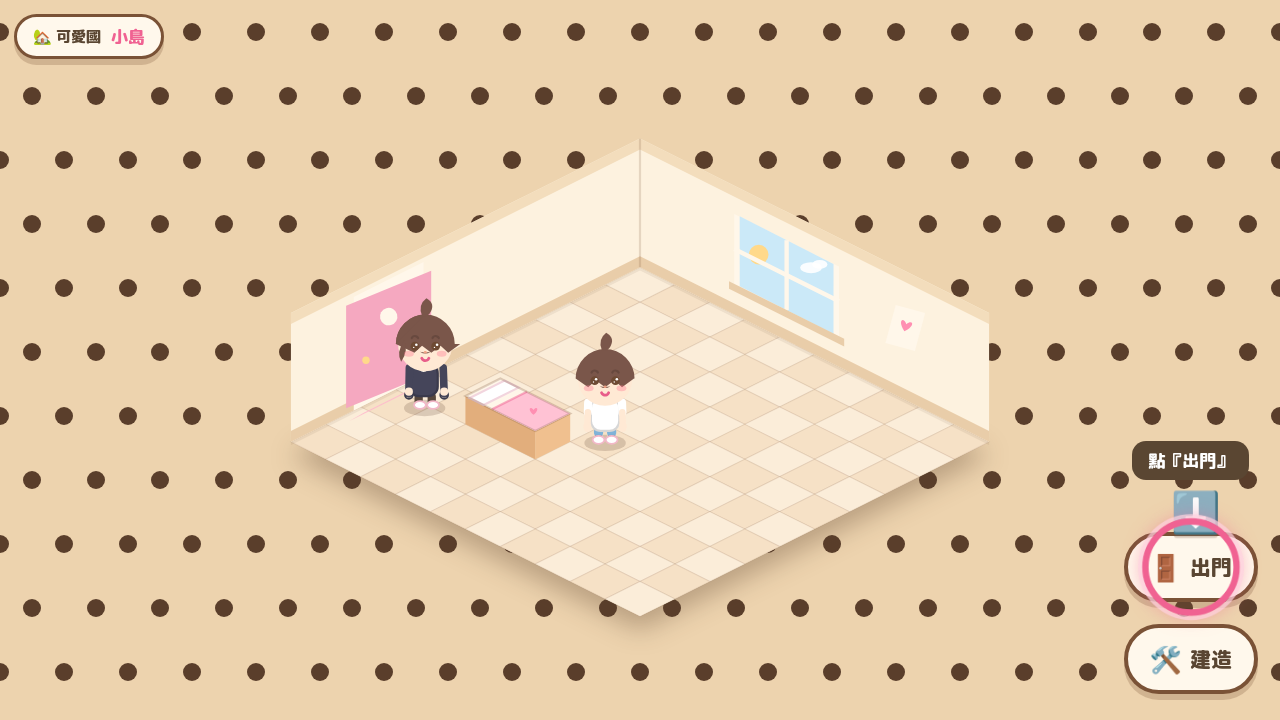
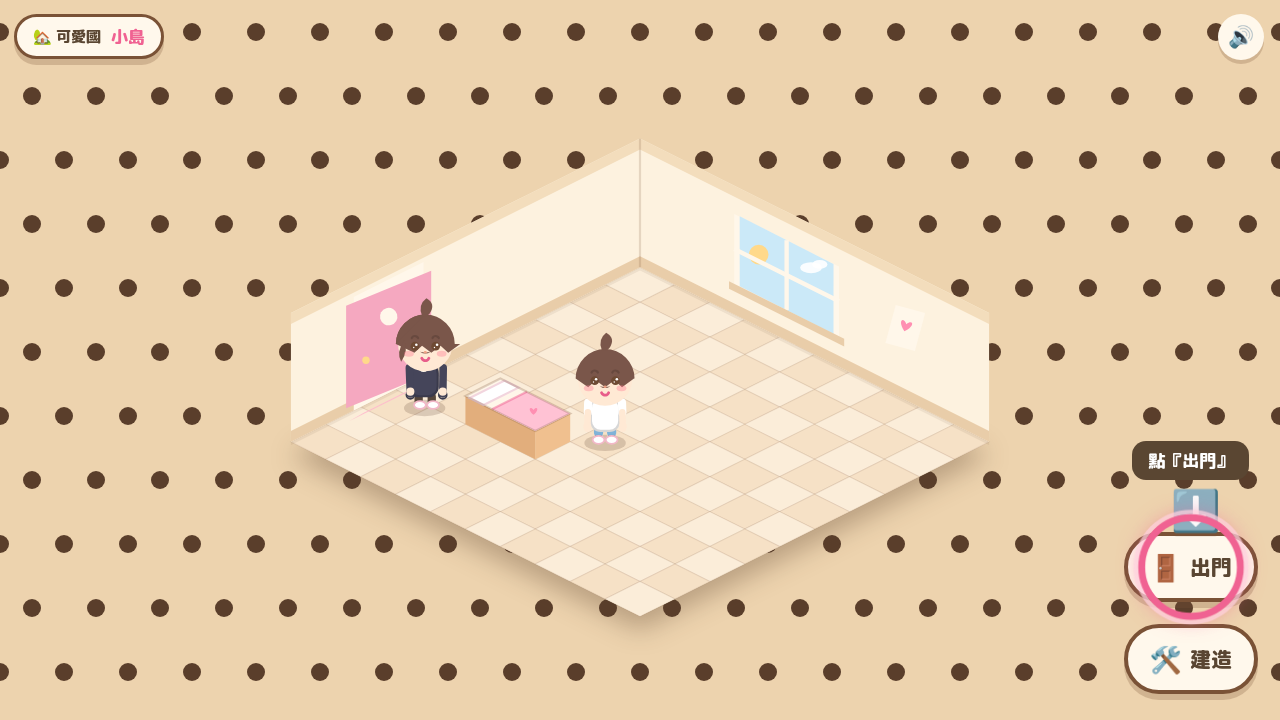
feat: 音效系統（Web Audio 合成 BGM + 9 種音效 + 靜音按鈕）
- js/audio.js：Web Audio 合成，無外部音檔
  - BGM：C大調 132bpm 可愛循環（旋律+貝斯，lookahead 排程）
  - 音效：click/confirm/back/place/pop/blip/toast/whoosh/wake
- 靜音按鈕（🔊/🔇 右上角），localStorage 記住設定
- 首次點擊封面才建立 AudioContext（自動播放政策）
- 各遊戲事件接線音效；對話推進 blip、toast 提示音

Changed region(s): [[0.875, 0.7028, 0.9688, 0.8861], [0.9375, 0.0, 1.0, 0.0917]]

diff --git a/js/audio.js b/js/audio.js
@@ -1,0 +1,175 @@
+/* ══════════ 音效系統（Web Audio 合成，無外部音檔） ══════════ */
+'use strict';
+
+const AudioSys = {
+  ctx: null,
+  muted: (function () { try { return localStorage.getItem('cute-kingdom-muted') === '1'; } catch (e) { return false; } })(),
+  bgmPlaying: false,
+  bgmTimer: null,
+  nextTime: 0,
+  step: 0,
+  _master: null,
+};
+
+const NOTE = (m) => 440 * Math.pow(2, (m - 69) / 12);
+
+function audioCtx() {
+  if (!AudioSys.ctx) {
+    AudioSys.ctx = new (window.AudioContext || window.webkitAudioContext)();
+  }
+  if (AudioSys.ctx.state === 'suspended') AudioSys.ctx.resume();
+  return AudioSys.ctx;
+}
+
+function masterGain() {
+  const ac = audioCtx();
+  if (!AudioSys._master) {
+    AudioSys._master = ac.createGain();
+    AudioSys._master.gain.value = AudioSys.muted ? 0.0001 : 1;
+    AudioSys._master.connect(ac.destination);
+  }
+  return AudioSys._master;
+}
+
+/* 單一音：attack→decay 包絡 */
+function tone(freq, t0, dur, opt = {}) {
+  const { type = 'sine', vol = 0.08, attack = 0.012, release = 0.1, slideTo = 0 } = opt;
+  const ac = audioCtx();
+  const o = ac.createOscillator();
+  const g = ac.createGain();
+  o.type = type;
+  o.frequency.setValueAtTime(freq, t0);
+  if (slideTo) o.frequency.exponentialRampToValueAtTime(Math.max(30, slideTo), t0 + dur);
+  g.gain.setValueAtTime(0.0001, t0);
+  g.gain.exponentialRampToValueAtTime(vol, t0 + attack);
+  g.gain.exponentialRampToValueAtTime(0.0001, t0 + dur + release);
+  o.connect(g);
+  g.connect(masterGain());
+  o.start(t0);
+  o.stop(t0 + dur + release + 0.05);
+}
+
+/* 噪声（過濾）：whoosh 用 */
+function noiseSfx(t0, dur, vol, freq) {
+  const ac = audioCtx();
+  const len = Math.max(1, Math.floor(ac.sampleRate * dur));
+  const buf = ac.createBuffer(1, len, ac.sampleRate);
+  const d = buf.getChannelData(0);
+  for (let i = 0; i < len; i++) d[i] = (Math.random() * 2 - 1) * (1 - i / len);
+  const src = ac.createBufferSource();
+  src.buffer = buf;
+  const f = ac.createBiquadFilter();
+  f.type = 'bandpass';
+  f.frequency.setValueAtTime(freq, t0);
+  f.frequency.exponentialRampToValueAtTime(freq * 2.2, t0 + dur);
+  f.Q.value = 0.7;
+  const g = ac.createGain();
+  g.gain.value = vol;
+  src.connect(f); f.connect(g); g.connect(masterGain());
+  src.start(t0);
+}
+
+/* ── 音效 ── */
+function sfx(name) {
+  if (AudioSys.muted) return;
+  let ac;
+  try { ac = audioCtx(); } catch (e) { return; }
+  const t = ac.currentTime + 0.01;
+  switch (name) {
+    case 'click':
+      tone(760, t, 0.045, { type: 'triangle', vol: 0.055, release: 0.05 });
+      break;
+    case 'confirm':
+      tone(587, t, 0.06, { type: 'triangle', vol: 0.07, release: 0.06 });
+      tone(880, t + 0.07, 0.1, { type: 'triangle', vol: 0.07, release: 0.12 });
+      break;
+    case 'back':
+      tone(520, t, 0.06, { type: 'triangle', vol: 0.06, release: 0.06 });
+      tone(392, t + 0.06, 0.09, { type: 'triangle', vol: 0.06, release: 0.1 });
+      break;
+    case 'place':
+      tone(175, t, 0.1, { type: 'sine', vol: 0.13, release: 0.12 });
+      tone(120, t + 0.02, 0.09, { type: 'sine', vol: 0.09, release: 0.1 });
+      break;
+    case 'pop':
+      tone(420, t, 0.09, { type: 'sine', vol: 0.06, release: 0.08, slideTo: 900 });
+      break;
+    case 'blip':
+      tone(950, t, 0.03, { type: 'square', vol: 0.02, release: 0.03 });
+      break;
+    case 'toast':
+      tone(233, t, 0.14, { type: 'square', vol: 0.035, release: 0.12 });
+      break;
+    case 'whoosh':
+      noiseSfx(t, 0.45, 0.05, 500);
+      break;
+    case 'wake':
+      tone(392, t, 0.1, { type: 'sine', vol: 0.06, release: 0.1 });
+      tone(523, t + 0.12, 0.1, { type: 'sine', vol: 0.06, release: 0.1 });
+      tone(659, t + 0.24, 0.2, { type: 'sine', vol: 0.07, release: 0.3 });
+      break;
+  }
+}
+
+/* ── BGM：可愛小循環（C大調，132bpm，32 個八分音符） ── */
+const BGM = {
+  bpm: 132,
+  steps: 32,
+  /* 旋律（midi，0=休止）：I - IV - vi - IV 感覺 */
+  melody: [
+    72, 76, 79, 76, 72, 74, 76, 76,
+    77, 76, 74, 72, 74, 0, 67, 0,
+    72, 76, 79, 76, 81, 79, 76, 74,
+    77, 79, 81, 79, 76, 74, 72, 0,
+  ],
+  /* 貝斯（每兩步一個音）：C F A F / C F A F→C */
+  bass: [
+    48, 0, 48, 0, 41, 0, 41, 0, 45, 0, 45, 0, 41, 0, 41, 0,
+    48, 0, 48, 0, 41, 0, 41, 0, 45, 0, 45, 0, 41, 0, 48, 0,
+  ],
+};
+
+function startBGM() {
+  if (AudioSys.bgmPlaying) return;
+  let ac;
+  try { ac = audioCtx(); } catch (e) { return; }
+  AudioSys.bgmPlaying = true;
+  AudioSys.nextTime = ac.currentTime + 0.12;
+  AudioSys.step = 0;
+  const stepDur = 60 / BGM.bpm / 2;
+  const tick = () => {
+    if (!AudioSys.bgmPlaying) return;
+    while (AudioSys.nextTime < ac.currentTime + 0.4) {
+      const s = AudioSys.step;
+      const m = BGM.melody[s];
+      if (m) tone(NOTE(m), AudioSys.nextTime, stepDur * 0.92, { type: 'triangle', vol: 0.042, attack: 0.02, release: 0.06 });
+      const b = BGM.bass[s];
+      if (b) tone(NOTE(b), AudioSys.nextTime, stepDur * 1.7, { type: 'sine', vol: 0.05, attack: 0.02, release: 0.12 });
+      AudioSys.nextTime += stepDur;
+      AudioSys.step = (s + 1) % BGM.steps;
+    }
+    AudioSys.bgmTimer = setTimeout(tick, 90);
+  };
+  tick();
+}
+
+function stopBGM() {
+  AudioSys.bgmPlaying = false;
+  if (AudioSys.bgmTimer) clearTimeout(AudioSys.bgmTimer);
+}
+
+function toggleMute() {
+  AudioSys.muted = !AudioSys.muted;
+  try { localStorage.setItem('cute-kingdom-muted', AudioSys.muted ? '1' : '0'); } catch (e) { /* ignore */ }
+  try {
+    const ac = audioCtx();
+    masterGain().gain.setTargetAtTime(AudioSys.muted ? 0.0001 : 1, ac.currentTime, 0.02);
+  } catch (e) { /* ignore */ }
+  updateMuteBtn();
+  if (!AudioSys.muted) sfx('click');
+}
+
+function updateMuteBtn() {
+  const b = document.getElementById('btn-mute');
+  if (b) b.textContent = AudioSys.muted ? '🔇' : '🔊';
+}

diff --git a/js/game.js b/js/game.js
@@ -35,20 +35,23 @@ function init() {
   setupCreateUI();
   setupBuildUI();
 
-  $('#cover-enter').onclick = () => showScreen('title');
-  $('#btn-start').onclick = startGame;
-  $('#btn-new').onclick = newGame;
-  $('#create-back').onclick = () => showScreen('title');
-  $('#create-confirm').onclick = confirmCreate;
+  $('#cover-enter').onclick = () => { sfx('confirm'); startBGM(); showScreen('title'); };
+  $('#btn-start').onclick = () => { sfx('confirm'); startGame(); };
+  $('#btn-new').onclick = () => { sfx('click'); newGame(); };
+  $('#create-back').onclick = () => { sfx('back'); showScreen('title'); };
+  $('#create-confirm').onclick = () => { sfx('confirm'); confirmCreate(); };
   $('#btn-back-home').onclick = () => {
+    sfx('whoosh');
     $('#screen-outside').classList.add('hidden');
     setSub('free');
   };
-  $('#build-btn').onclick = () => toggleBuildPanel();
+  $('#build-btn').onclick = () => { sfx('pop'); toggleBuildPanel(); };
   $('#out-btn').onclick = () => {
     if (Game.sub === 'goOut') hideHint();
     if (Game.sub === 'goOut' || Game.sub === 'free') goOutside();
   };
+  $('#btn-mute').onclick = toggleMute;
+  updateMuteBtn();
 
   requestAnimationFrame(frame);
 }
@@ -266,6 +269,7 @@ function goOutside() {
   saveGame({ cfg: Game.playerCfg, furniture: Game.furniture, stage: 'done' });
   setSub('loading');
   Game.loadingTimer = 0;
+  sfx('whoosh');
   $('#screen-loading').classList.remove('hidden');
   hideHint();
 }
@@ -484,6 +488,7 @@ function setupInput() {
         Game.player.eyesClosed = false;
         setSub('awake');
         Game.awakeT = 0;
+        sfx('wake');
         break;
       case 'awake':
         /* 加速看完 */
@@ -560,7 +565,7 @@ const BUILD_TABS = {
 
 function setupBuildUI() {
   for (const tab of document.querySelectorAll('.btab')) {
-    tab.onclick = () => selectBuildTab(tab.dataset.tab);
+    tab.onclick = () => { sfx('click'); selectBuildTab(tab.dataset.tab); };
   }
 }
 
@@ -605,6 +610,7 @@ function selectBuildTab(tab, force) {
     nm.textContent = '床' + (hasBed ? '（已有）' : '');
     item.append(cv, nm);
     item.onclick = () => {
+      sfx('click');
       if (hasBed) { showToast('你已經有一張床囉～🛏'); return; }
       if (Game.sub === 'tutBuild') startPlacement();
       else if (Game.sub === 'free') startPlacement();
@@ -624,8 +630,7 @@ function selectBuildTab(tab, force) {
 function startPlacement() {
   closeBuildPanel();
   hideHint();
-  setSub('placeBed');
-  const tx = Math.floor(Game.mouse.tx), ty = Math.floor(Game.mouse.ty);
+  setSub('placeBed');  const tx = Math.floor(Game.mouse.tx), ty = Math.floor(Game.mouse.ty);
   Game.placement = { tx: clamp(tx, 0, N - BED.w), ty: clamp(ty, 0, N - BED.d), valid: true };
   Game.placement.valid = bedValid(Game.placement.tx, Game.placement.ty);
   const bar = $('#hint-bar');
@@ -647,6 +652,7 @@ function placeBed(tx, ty) {
   rebuildBlocked();
   Game.placement = null;
   $('#hint-bar').classList.add('hidden');
+  sfx('place');
   saveGame({ cfg: Game.playerCfg, furniture: Game.furniture, stage: 'bed' });
   setSub('praise');
   Dialogue.start([
@@ -663,6 +669,7 @@ function setupCreateUI() {
   /* 性別 */
   for (const btn of document.querySelectorAll('#opt-gender .chip')) {
     btn.onclick = () => {
+      sfx('click');
       Game.playerCfg.gender = btn.dataset.val;
       Game.playerCfg.hairStyle = defaultConfig(btn.dataset.val).hairStyle;
       refreshCreateUI();
@@ -692,7 +699,7 @@ function fillChips(sel, opts, key) {
     const b = document.createElement('button');
     b.className = 'chip';
     b.textContent = o.name;
-    b.onclick = () => { Game.playerCfg[key] = o.id; refreshCreateUI(); };
+    b.onclick = () => { sfx('click'); Game.playerCfg[key] = o.id; refreshCreateUI(); };
     box.appendChild(b);
   }
 }
@@ -705,7 +712,7 @@ function fillSwatches(sel, opts, key) {
     s.style.background = o.c;
     s.dataset.name = o.name;
     s.setAttribute('aria-label', o.name);
-    s.onclick = () => { Game.playerCfg[key] = o.id; refreshCreateUI(); };
+    s.onclick = () => { sfx('click'); Game.playerCfg[key] = o.id; refreshCreateUI(); };
     box.appendChild(s);
   }
 }
@@ -718,7 +725,7 @@ function fillClothChips(sel, opts, key) {
     const dot = document.createElement('i');
     dot.style.cssText = `display:inline-block;width:14px;height:14px;border-radius:50%;background:${o.c};border:2px solid rgba(122,82,54,.3);margin-right:6px;vertical-align:-2px;`;
     b.append(dot, document.createTextNode(o.name));
-    b.onclick = () => { Game.playerCfg[key] = o.id; refreshCreateUI(); };
+    b.onclick = () => { sfx('click'); Game.playerCfg[key] = o.id; refreshCreateUI(); };
     box.appendChild(b);
   }
 }

diff --git a/css/style.css b/css/style.css
@@ -481,6 +481,22 @@ body {
   animation: pop-in .25s cubic-bezier(.34,1.56,.64,1);
 }
 
+/* 靜音按鈕 */
+.mute-btn {
+  position: fixed; top: 14px; right: 16px;
+  width: 46px; height: 46px;
+  border: 3px solid var(--brown);
+  border-radius: 50%;
+  background: #FFF8EC;
+  font-size: 21px;
+  cursor: pointer;
+  z-index: 98;
+  box-shadow: 0 4px 0 rgba(122,82,54,.25);
+  transition: transform .1s;
+}
+.mute-btn:hover { transform: scale(1.08); }
+.mute-btn:active { transform: scale(.94); }
+
 /* 通用彈入 */
 @keyframes pop-in {
   from { transform: scale(.6); opacity: 0; }

diff --git a/js/dialogue.js b/js/dialogue.js
@@ -101,11 +101,13 @@ const Dialogue = {
     if (this.typing < this.current.text.length) {
       this.typing = this.current.text.length;
       this.textEl.textContent = this.current.text;
+      try { sfx('blip'); } catch (e) { /* ignore */ }
       return;
     }
     if (this.current.onExit) this.current.onExit();
     this.idx++;
     this.showLine();
+    try { sfx('blip'); } catch (e) { /* ignore */ }
   },
 
   close() {

diff --git a/index.html b/index.html
@@ -195,10 +195,14 @@
 <!-- toast -->
 <div class="toast hidden" id="toast"></div>
 
+<!-- 靜音切換 -->
+<button class="mute-btn" id="btn-mute" title="聲音開/關">🔊</button>
+
 <script src="js/util.js"></script>
 <script src="js/character.js"></script>
 <script src="js/world.js"></script>
 <script src="js/dialogue.js"></script>
+<script src="js/audio.js"></script>
 <script src="js/game.js"></script>
 </body>
 </html>

diff --git a/js/util.js b/js/util.js
@@ -64,6 +64,7 @@ function showToast(msg, ms = 2200) {
   const t = $('#toast');
   t.textContent = msg;
   t.classList.remove('hidden');
+  try { sfx('toast'); } catch (e) { /* ignore */ }
   clearTimeout(toastTimer);
   toastTimer = setTimeout(() => t.classList.add('hidden'), ms);
 }

diff --git a/PROGRESS.md b/PROGRESS.md
@@ -85,12 +85,17 @@
 2. **提示氣泡出畫面**：out-btn 靠右，氣泡 `left:40px` 固定偏移會超出右緣 → 改 JS 量測氣泡寬度置中並 clamp。
 3. **角色外觀不符設定圖**：原預設粉/黑色系與 art/ 參考圖（可可棕髮、呆毛、白T、牛仔短褲）差距大 → 加可可/拿鐵髮色、可可棕眼色、深咖長褲、呆毛、黑長袖外套白T內搭，並更新預設與小宥配置。
 
-## 🎵 音效 / 音樂
-- [ ] 待做（BGM + 點擊音效）
+## 🎵 音效 / 音樂 ✅（js/audio.js）
+
+- [x] Web Audio 合成音效（無外部音檔）：click / confirm / back / place / pop / blip / toast / whoosh / wake
+- [x] BGM：C大調 132bpm 可愛循環（旋律 triangle + 貝斯 sine，32 步循環排程）
+- [x] 靜音按鈕（🔊/🔇，右上角，localStorage 記住）
+- [x] 首次點擊（封面）才啟動 AudioContext（符合瀏覽器自動播放政策）
 
 ## 🖼 進階美術
+- [ ] 更多家具（桌子/椅子/立燈/盆栽/地毯）
+- [ ] 真正的屋外場景（現在是佔位卡片）
 - [ ] 角色細節（腮紅加深、頭髮高光）
-- [ ] 更多家具 / 屋外裝飾
 - [ ] 過場動畫
 
 ## 📦 打包
